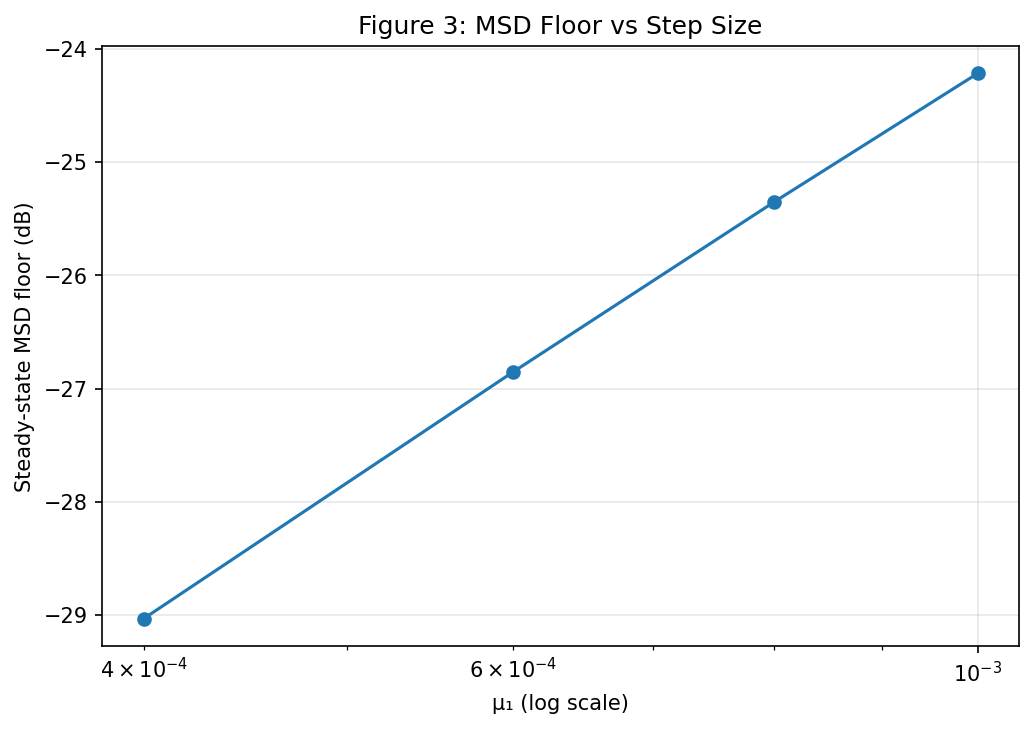
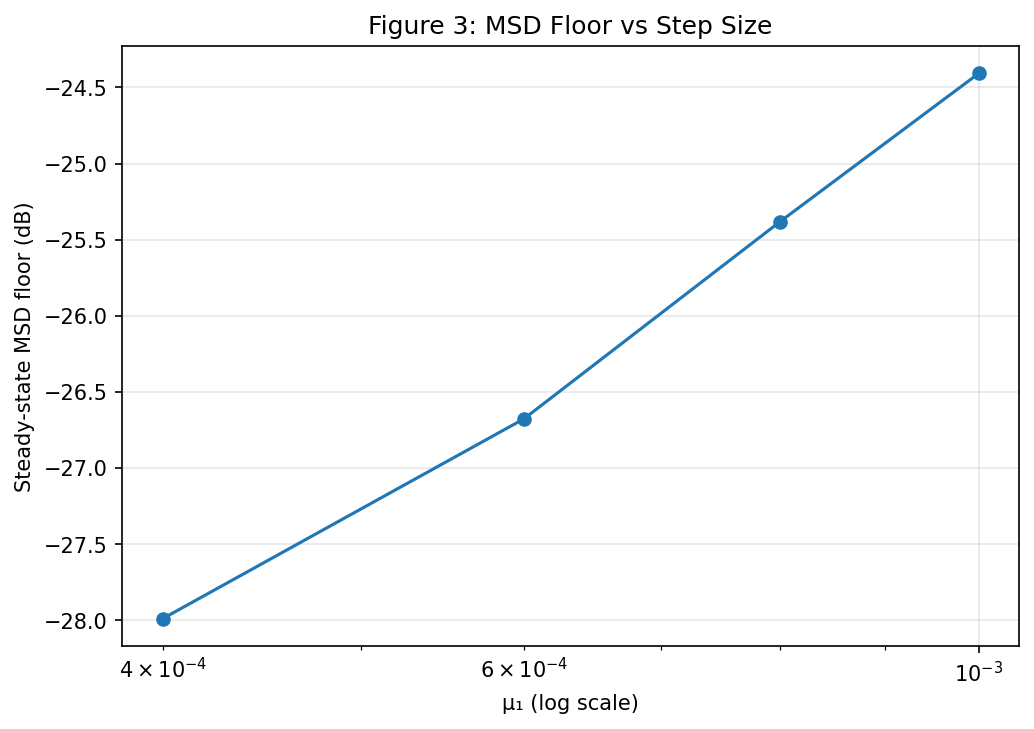
Added montecarlo as optional parameter

diff --git a/experiments/reproduce_figure1.py b/experiments/reproduce_figure1.py
@@ -1,10 +1,22 @@
 # @Luka
 #
 # Figure 1: 6-panel reproduction of paper Figure 1.
-#   Top row:    4th-order error moment | 1st-order error moment  (all 4 μ settings overlaid)
-#   Bottom 4:   Per-team + per-agent MSD, one subplot per μ setting
+#   Top row:    4th-order moment E[‖z̃‖⁴] | 1st-order moment ‖E[z̃]‖ (paper eq 21b/21c),
+#               Monte-Carlo averaged over MC_SEEDS runs (all 4 μ settings overlaid).
+#               MC averaging is REQUIRED: on a single run the two dB curves are locked at
+#               exactly 4×. The first-order panel averages the error VECTOR (so noise
+#               cancels → bias), the fourth-order averages the SCALAR ‖z̃‖⁴; the two
+#               operators differ, which is what reproduces the paper's separated levels.
+#   Bottom 4:   Per-team floor + per-agent MSD (single noisy run), one subplot per μ.
+#   Also saves a simple all-agent MSD-vs-iterations overlay (one curve per μ).
 #
-# Run: python -m experiments.reproduce_figure1  (from project root)
+# Two modes (separate output files, never overwrite each other):
+#   regular (mc=False) → single noisy run; moments locked at 4×; fast.
+#                        → figure1.png,    figure1_overlay.png
+#   mc      (mc=True)  → Monte-Carlo averaged moments (E[‖z̃‖⁴], ‖E[z̃]‖); slow.
+#                        → figure1_mc.png, figure1_overlay_mc.png
+#
+# Run: python -m experiments.reproduce_figure1 [regular|mc|both]   (default: regular)
 
 import os, sys
 ROOT = os.path.dirname(os.path.dirname(os.path.abspath(__file__)))
@@ -13,35 +25,95 @@ sys.path.insert(0, ROOT)
 
 import numpy as np
 import matplotlib.pyplot as plt
-from config import K1, K2, MU_SWEEP, Z_STAR, ZK_STAR, R_U
+from config import K1, K2, MU_SWEEP, MC_SEEDS, Z_STAR, ZK_STAR, R_U
 from network import build_within_team_matrix, build_cross_team_matrices, sanity_check
 from algorithm import run_cd
 from game import QuadraticGame
 from metrics import (compute_msd, compute_msd_team1, compute_msd_team2, compute_msd_agent,
-                     compute_fourth_order_moment, compute_first_order_moment, to_db)
+                     compute_fourth_order_moment, compute_first_order_moment,
+                     compute_error_vector, to_db)
 # NOTE: compute_msd_team1/2 average over ALL agents in a team (the paper's
 # "team MSD" / theoretical performance level); compute_msd_agent is a single agent.
 
 
-def reproduce_figure1():
+def _mc_error_moments(matrices, mu1, mu2, n_seeds, tag):
+    """Monte-Carlo estimate of the paper's two error-moment panels (eq 21b / 21c):
+
+        fourth-order  E[‖z̃_i‖⁴]   — average the SCALAR ‖z̃‖⁴ over seeds.
+        first-order   ‖E[z̃_i]‖    — average the error VECTOR over seeds, then norm.
+
+    The two use different operators (scalar-power vs vector mean), which is exactly
+    what frees them from the deterministic 4× dB lock a single run imposes. Crucially
+    the first-order panel averages the vector: zero-mean gradient noise cancels and
+    only the bias survives, so it lands far below the 4×-prediction (matching the
+    paper). Averaging the NORM instead (E[‖z̃‖]) barely breaks the lock — wrong quantity.
+
+    Returns (err4_db, err1_db, hist_seed0); seed-0 history feeds the noisy MSD panels.
+    """
+    e4_sum = zvec_sum = None
+    hist0 = None
+    for s in range(n_seeds):
+        game = QuadraticGame(ZK_STAR, R_U, rng=np.random.default_rng(s))
+        hist = run_cd(game, matrices, mu1=mu1, mu2=mu2, seed=s, use_cache=False,
+                      label=f"{tag} seed {s + 1}/{n_seeds}")
+        e4_sum = e4_sum + compute_fourth_order_moment(hist, Z_STAR) if e4_sum is not None \
+            else compute_fourth_order_moment(hist, Z_STAR)
+        ze = compute_error_vector(hist, Z_STAR)                       # (T, D)
+        zvec_sum = ze if zvec_sum is None else zvec_sum + ze
+        if s == 0:
+            hist0 = hist
+    err4 = to_db(e4_sum / n_seeds)                                    # E[‖z̃‖⁴]
+    err1 = to_db(np.linalg.norm(zvec_sum / n_seeds, axis=1))         # ‖E[z̃]‖ (bias)
+    return err4, err1, hist0
+
+
+def reproduce_figure1(mc=True):
+    """Build Figure 1 (6-panel) + the simple MSD overlay.
+
+    mc=True  → error-moment panels are Monte-Carlo averaged over MC_SEEDS runs
+               (paper-faithful: E[‖z̃‖⁴] and ‖E[z̃]‖; the 4× dB lock is broken).
+               Saved as figure1_mc.png / figure1_overlay_mc.png. Slow (~minutes).
+    mc=False → error-moment panels come from ONE noisy run (raw ‖z̃‖⁴ and ‖z̃‖, whose
+               dB curves are locked at exactly 4×). Saved as figure1.png /
+               figure1_overlay.png. Fast (single cached run).
+
+    The MSD panels and the overlay are a single noisy realisation in BOTH modes.
+    """
+    suffix = "_mc" if mc else ""
     A1   = build_within_team_matrix("fully_connected", K1)
     A2   = build_within_team_matrix("fully_connected", K2)
     mats = build_cross_team_matrices("fully_connected")
     sanity_check({**mats, "A1": A1, "A2": A2})
 
+    if mc:
+        e4_title = f"Fourth-order error moment  E[‖z̃‖⁴]  ({MC_SEEDS}-run MC avg)"
+        e1_title = f"First-order error moment  ‖E[z̃]‖  ({MC_SEEDS}-run MC avg)"
+    else:
+        e4_title = "Fourth-order error moment  ‖z̃‖⁴  (single run, 4×-locked)"
+        e1_title = "First-order error moment  ‖z̃‖  (single run, 4×-locked)"
+
+    matrices = {**mats, "A1": A1, "A2": A2}
     results = []
     for idx, (mu1, mu2) in enumerate(MU_SWEEP, 1):
         label = f"μ₁={mu1}, μ₂={mu2}"
-        game  = QuadraticGame(ZK_STAR, R_U)
-        hist  = run_cd(game, {**mats, "A1": A1, "A2": A2}, mu1=mu1, mu2=mu2,
-                       label=f"run {idx}/{len(MU_SWEEP)}")
 
+        if mc:
+            # Paper-faithful moments: average ‖z̃‖⁴ and the z̃ vector over MC_SEEDS runs.
+            err4, err1, hist = _mc_error_moments(matrices, mu1, mu2, MC_SEEDS,
+                                                 tag=f"set {idx}/{len(MU_SWEEP)}")
+        else:
+            # Single cached run: raw instantaneous moments (dB curves locked at 4×).
+            game = QuadraticGame(ZK_STAR, R_U)
+            hist = run_cd(game, matrices, mu1=mu1, mu2=mu2,
+                          label=f"run {idx}/{len(MU_SWEEP)}")
+            err4 = to_db(compute_fourth_order_moment(hist, Z_STAR))
+            err1 = to_db(compute_first_order_moment(hist, Z_STAR))
+
+        # MSD panels + overlay: single realisation, kept noisy on purpose.
         msd_team1 = to_db(compute_msd_team1(hist, Z_STAR))        # team-average MSD (all T1 agents)
         msd_team2 = to_db(compute_msd_team2(hist, Z_STAR))        # team-average MSD (all T2 agents)
         msd_a1t1 = to_db(compute_msd_agent(hist, Z_STAR, team=1, agent=0))
         msd_a1t2 = to_db(compute_msd_agent(hist, Z_STAR, team=2, agent=0))
-        err4 = to_db(compute_fourth_order_moment(hist, Z_STAR))   # raw ‖z̃‖⁴, paper eq 21b
-        err1 = to_db(compute_first_order_moment(hist, Z_STAR))    # raw ‖z̃‖,  paper eq 21c
         msd_all = to_db(compute_msd(hist, Z_STAR))                # all-agent MSD (for overlay)
 
         # Empirical floor: mean of last 20% as proxy for theoretical performance level.
@@ -60,7 +132,8 @@ def reproduce_figure1():
 
     # --- Build 6-panel figure matching paper layout ---
     fig = plt.figure(figsize=(14, 12))
-    fig.suptitle("Figure 1: Simulation Results", fontsize=13, fontweight="bold")
+    fig.suptitle(f"Figure 1: Simulation Results ({'MC moments' if mc else 'single-run moments'})",
+                 fontsize=13, fontweight="bold")
 
     # Top row: error moments (all 4 settings overlaid)
     ax_e4 = fig.add_subplot(3, 2, 1)
@@ -68,7 +141,7 @@ def reproduce_figure1():
     for r in results:
         ax_e4.plot(r["err4"], label=r["label"])
         ax_e1.plot(r["err1"], label=r["label"])
-    for ax, title in [(ax_e4, "Fourth-order error moment"), (ax_e1, "First-order error moment")]:
+    for ax, title in [(ax_e4, e4_title), (ax_e1, e1_title)]:
         ax.set_title(title)
         ax.set_xlabel("Iterations")
         ax.set_ylabel("Error (dB)")
@@ -97,7 +170,7 @@ def reproduce_figure1():
 
     plt.tight_layout()
     os.makedirs(FIGS, exist_ok=True)
-    save_path = os.path.join(FIGS, "figure1.png")
+    save_path = os.path.join(FIGS, f"figure1{suffix}.png")
     plt.savefig(save_path, dpi=150, bbox_inches="tight")
     plt.close(fig)
     print(f"Saved → {save_path}")
@@ -112,11 +185,26 @@ def reproduce_figure1():
     ax.legend()
     ax.grid(True, alpha=0.3)
     plt.tight_layout()
-    overlay_path = os.path.join(FIGS, "figure1_overlay.png")
+    overlay_path = os.path.join(FIGS, f"figure1_overlay{suffix}.png")
     plt.savefig(overlay_path, dpi=150, bbox_inches="tight")
     plt.close(fig2)
     print(f"Saved → {overlay_path}")
 
 
+def run_figure1(mode="regular"):
+    """Dispatch by mode: 'regular' (single-run, fast), 'mc' (Monte-Carlo, slow), 'both'."""
+    if mode in ("regular", "single", "both"):
+        reproduce_figure1(mc=False)
+    if mode in ("mc", "both"):
+        reproduce_figure1(mc=True)
+
+
 if __name__ == "__main__":
-    reproduce_figure1()
+    mode = sys.argv[1].lower() if len(sys.argv) > 1 else "regular"
+    if mode not in ("regular", "single", "mc", "both"):
+        print(f"Unknown mode '{mode}'.  Usage: python -m experiments.reproduce_figure1 "
+              f"[regular|mc|both]"); sys.exit(1)
+    print(f"Figure 1 mode = {mode}   "
+          f"(regular → figure1.png, fast;  mc → figure1_mc.png, averages {MC_SEEDS} "
+          f"runs/setting ≈ minutes)")
+    run_figure1(mode)

diff --git a/metrics.py b/metrics.py
@@ -65,13 +65,31 @@ def compute_within_team_disagreement(history: dict) -> np.ndarray:
     return (d1 * K1 + d2 * K2) / K                     # all-agent average
 
 
-def compute_fourth_order_moment(history: dict, z_star: np.ndarray) -> np.ndarray:
-    """Raw ‖z̃_i‖⁴ from a single run — proxy for E[‖z̃_i‖⁴] (paper eq 21b).
+def compute_error_vector(history: dict, z_star: np.ndarray) -> np.ndarray:
+    """Stacked per-iteration error vector z̃(i) over ALL agents, shape (T, K1·M1 + K2·M2).
 
-    NOT smoothed: the paper's curves are visibly noisy (single-realisation stochastic
-    gradients), and that noisiness is part of the result. For a less noisy estimate,
-    average this over several independent seeds (Monte-Carlo) — do NOT moving-average
-    a single run, which distorts the shape. Returns shape (T,) in linear scale.
+    Needed for the paper's FIRST-order moment ‖E[z̃_i]‖ (eq 21c), which is the norm of
+    the error vector AVERAGED over realisations — averaging the vector (not the norm)
+    cancels zero-mean gradient noise and leaves the bias. Average this across seeds,
+    then take the norm. (Contrast compute_first_order_moment, which gives E[‖z̃‖].)
+    """
+    x_err = (history["x"] - z_star[:M1]).reshape(len(history["x"]), -1)   # (T, K1*M1)
+    y_err = (history["y"] - z_star[M1:]).reshape(len(history["y"]), -1)   # (T, K2*M2)
+    return np.concatenate([x_err, y_err], axis=1)
+
+
+def compute_fourth_order_moment(history: dict, z_star: np.ndarray) -> np.ndarray:
+    """Per-iteration ‖z̃_i‖⁴ for ONE run (linear scale) — the integrand of E[‖z̃_i‖⁴]
+    (paper eq 21b). Returns shape (T,).
+
+    IMPORTANT — this is a single realisation, NOT the paper's plotted quantity.
+    The paper plots E[‖z̃_i‖⁴], a Monte-Carlo average over many independent runs.
+    Because expectation does not commute with powers, you MUST average ‖z̃‖⁴ and ‖z̃‖
+    separately across seeds (before to_db). If instead you derive both panels from one
+    run's ‖z̃(i)‖², their dB curves are locked at exactly 4× (10·log10(‖z̃‖⁴) =
+    4·10·log10(‖z̃‖)) at every iteration — a fixed ratio the paper's curves do NOT
+    show (their steady-state levels separate via the Jensen gap). Do NOT moving-average
+    a single run to fake smoothness; average over seeds. See reproduce_figure1._mc_error_moments.
     """
     x_star = z_star[:M1]
     y_star = z_star[M1:]
@@ -82,11 +100,14 @@ def compute_fourth_order_moment(history: dict, z_star: np.ndarray) -> np.ndarray
 
 
 def compute_first_order_moment(history: dict, z_star: np.ndarray) -> np.ndarray:
-    """Raw ‖z̃_i‖ from a single run — proxy for E[‖z̃_i‖] (paper eq 21c).
+    """Per-iteration ‖z̃_i‖ for ONE run (linear scale) — the integrand of E[‖z̃_i‖].
 
-    NOT smoothed (see compute_fourth_order_moment). The instantaneous norm is the
-    paper's "first-order error moment"; it stays noisy at steady state by design.
-    Returns shape (T,) in linear scale.
+    WARNING: E[‖z̃‖] is NOT the paper's "first-order error moment". The paper plots
+    ‖E[z̃_i]‖ (eq 21c) — the norm of the MEAN error (the bias). Averaging the norm
+    (this function) does not cancel the gradient noise, so E[‖z̃‖] only deviates from
+    the 4×-lock by the small Jensen gap; averaging the VECTOR (compute_error_vector,
+    then norm) cancels the noise and gives the much lower, decoupled bias curve.
+    Use compute_error_vector for the figure. Returns shape (T,).
     """
     x_star = z_star[:M1]
     y_star = z_star[M1:]

diff --git a/main.py b/main.py
@@ -1,7 +1,9 @@
 # @Luka
 #
 # Entry point — runs all three experiments in sequence and saves figures to results/figures/.
-# Run: python main.py  (from project root)
+# Run: python main.py            (Figure 1 = single-run moments, fast)
+#      python main.py mc         (Figure 1 = Monte-Carlo moments, slow; → figure1_mc.png)
+#      python main.py both       (Figure 1 = both versions, separate files)
 
 import sys
 import os
@@ -11,16 +13,21 @@ sys.path.insert(0, os.path.dirname(__file__))
 os.makedirs("results/figures", exist_ok=True)
 os.makedirs("results/data",    exist_ok=True)
 
+# Figure 1 moment panels: "regular" (single noisy run, fast, → figure1.png),
+# "mc" (Monte-Carlo averaged, slow, → figure1_mc.png), or "both".
+# Overridable from the command line: e.g. `python main.py mc`.
+FIGURE1_MODE = "regular"
 
-def main():
+
+def main(figure1_mode=FIGURE1_MODE):
     print("=== Topology visualization ===")
     from experiments.visualize_topology import visualize_topology
     visualize_topology()
 
-    print("=== Figure 1: Reproduce paper MSD plot ===")
+    print(f"=== Figure 1: Reproduce paper MSD plot (mode={figure1_mode}) ===")
     # Requires: algorithm.py, game.py (Milica) + network.py, metrics.py (Luka)
-    from experiments.reproduce_figure1 import reproduce_figure1
-    reproduce_figure1()
+    from experiments.reproduce_figure1 import run_figure1
+    run_figure1(figure1_mode)
 
     print("=== Figure 2: MSD vs topology ===")
     # Requires: same as Figure 1
@@ -28,12 +35,13 @@ def main():
     topology_test()
 
     print("=== Figure 3: MSD floor vs step size ===")
-    # Requires: same as Figure 1
-    #from experiments.stepsize_test import stepsize_test #commented out because it just works, and exported figure is good
-    #stepsize_test()
+    #Requires: same as Figure 1
+    from experiments.stepsize_test import stepsize_test #commented out because it just works, and exported figure is good
+    stepsize_test()
 
     print("Done. Figures saved to results/figures/")
 
 
 if __name__ == "__main__":
-    main()
+    mode = sys.argv[1].lower() if len(sys.argv) > 1 else FIGURE1_MODE
+    main(figure1_mode=mode)

diff --git a/algorithm.py b/algorithm.py
@@ -55,19 +55,29 @@ def load_or_generate_observations(game, num_iters: int) -> tuple:
     return u_all, d_all
 
 
-def run_cd(game, matrices: dict, mu1=MU1, mu2=MU2, num_iters=NUM_ITERS, label="") -> dict:
-    """Run CD algorithm using pre-generated (cached) observations.
+def run_cd(game, matrices: dict, mu1=MU1, mu2=MU2, num_iters=NUM_ITERS, label="",
+           seed=None, use_cache=True) -> dict:
+    """Run CD algorithm using pre-generated observations.
 
     Returns history dict with keys:
         x: shape (num_iters, K1, M1)
         y: shape (num_iters, K2, M2)
+
+    seed: None  → use RANDOM_SEED for initialisation and (by default) the on-disk
+                  observation cache. Reproducible single run; this is the default.
+          int   → initialise from this seed and generate FRESH observations from the
+                  game's own rng (no cache). Used to draw independent realisations for
+                  Monte-Carlo averaging of the error moments (see reproduce_figure1).
     """
     prefix = f"[{label}] " if label else ""
     print(f"{prefix}Starting {num_iters:,} iterations (μ₁={mu1}, μ₂={mu2})...")
 
-    u_all, d_all = load_or_generate_observations(game, num_iters)
+    if seed is None and use_cache:
+        u_all, d_all = load_or_generate_observations(game, num_iters)
+    else:
+        u_all, d_all = game.generate_all_observations(num_iters)
 
-    rng = np.random.default_rng(RANDOM_SEED)
+    rng = np.random.default_rng(RANDOM_SEED if seed is None else seed)
     x       = rng.normal(size=(K1, M1))
     y       = rng.normal(size=(K2, M2))
     y_prime = rng.normal(size=(K1, M2))

diff --git a/config.py b/config.py
@@ -20,6 +20,13 @@ MU2 = 0.0005
 NUM_ITERS = 41_000
 RANDOM_SEED = 42
 
+# Monte-Carlo realisations for the error-moment panels in Figure 1.
+# The paper plots E[‖z̃‖⁴] and E[‖z̃‖] (averaged over many runs). On a SINGLE run the
+# two dB curves are locked at exactly 4× (fourth_dB = 4·first_dB); only averaging the
+# two powers separately over independent seeds breaks that lock and lets the steady-state
+# levels separate the way the paper shows. More seeds → smoother curves (and slower).
+MC_SEEDS = 20
+
 # --- Topologies (used by network.py and topology_test.py) ---
 TOPOLOGIES = ["fully_connected", "ring", "single_edge"]
 